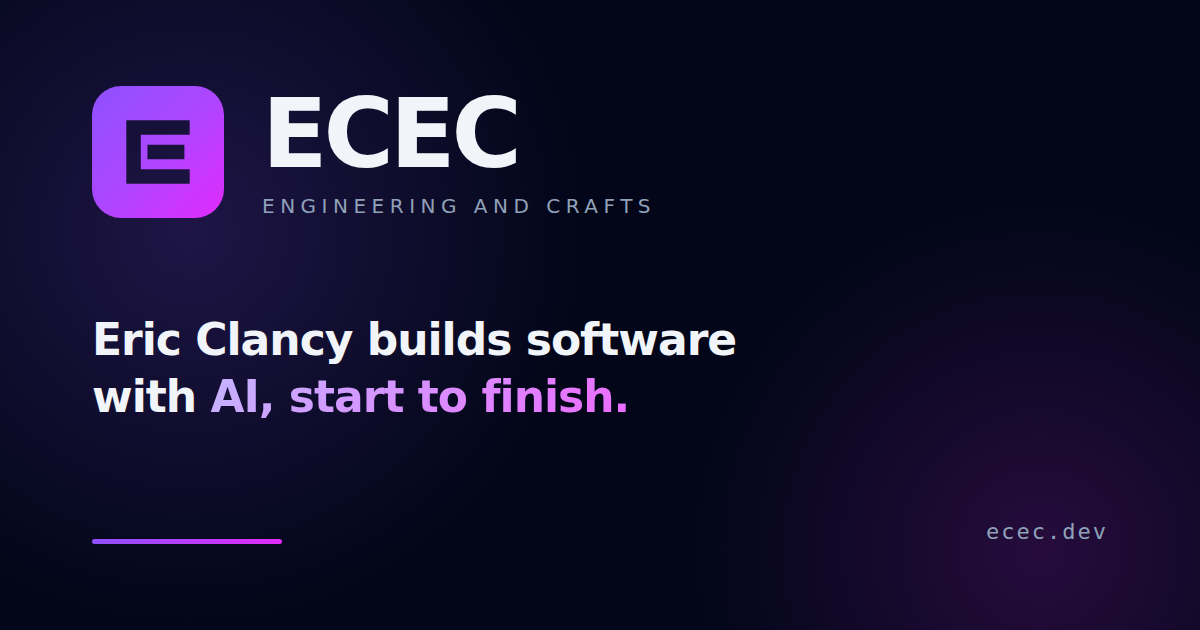
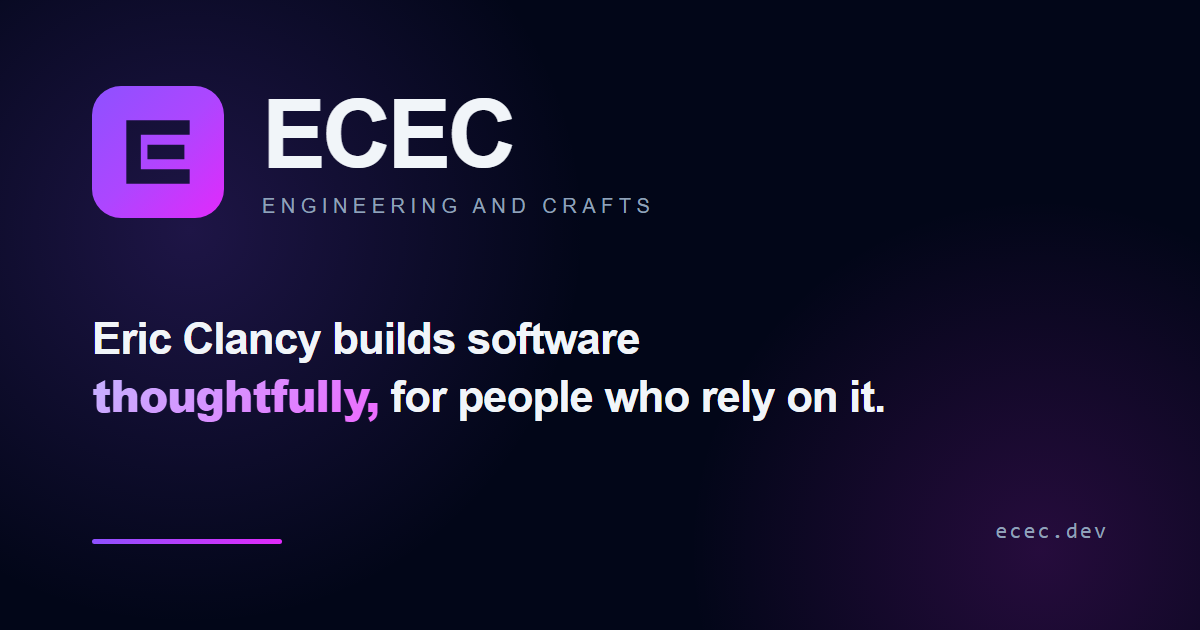
Update OG title/description and regenerate og-image

diff --git a/index.html b/index.html
@@ -13,10 +13,10 @@
       name="description"
       content="Eric Clancy — AI-assisted full-stack developer. Explore projects, expertise, and ways to connect."
     />
-    <meta property="og:title" content="Eric Clancy — AI-Assisted Full-Stack Developer" />
+    <meta property="og:title" content="Eric Clancy Engineering &amp; Crafts" />
     <meta
       property="og:description"
-      content="Hi, I'm Eric. I build software thoughtfully, for people who rely on it."
+      content="Full Stack Developer, Technical Lead, &amp; AI Specialist"
     />
     <meta property="og:type" content="website" />
     <meta property="og:url" content="https://ecec.dev" />

diff --git a/public/og-image.html b/public/og-image.html
@@ -133,7 +133,7 @@
         </div>
       </div>
       <div class="line">
-        Eric Clancy builds software<br />with <b>AI, start to finish.</b>
+        Eric Clancy builds software<br /><b>thoughtfully,</b> for people who rely on it.
       </div>
       <div class="foot">
         <div class="rule"></div>
